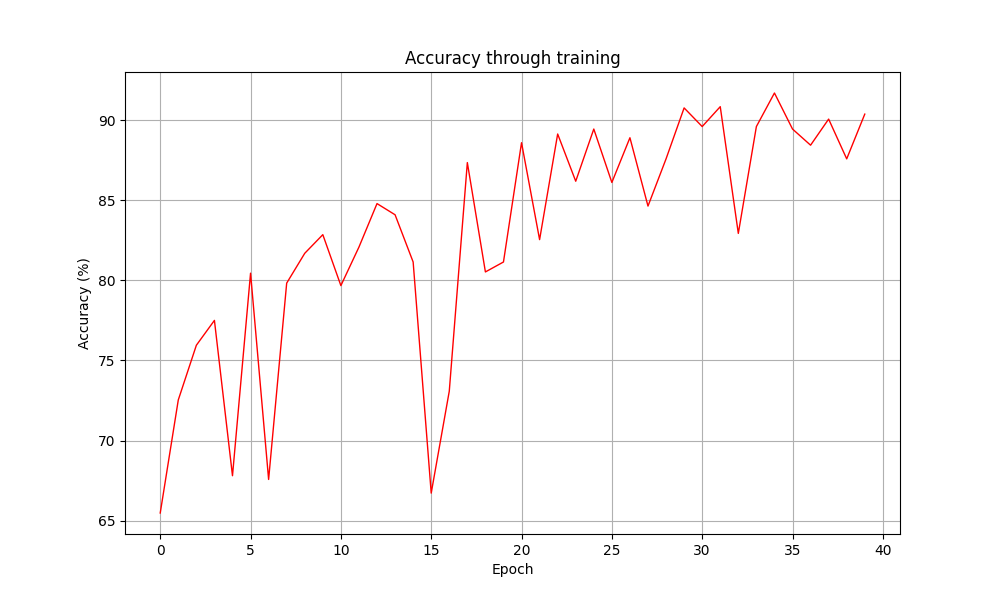
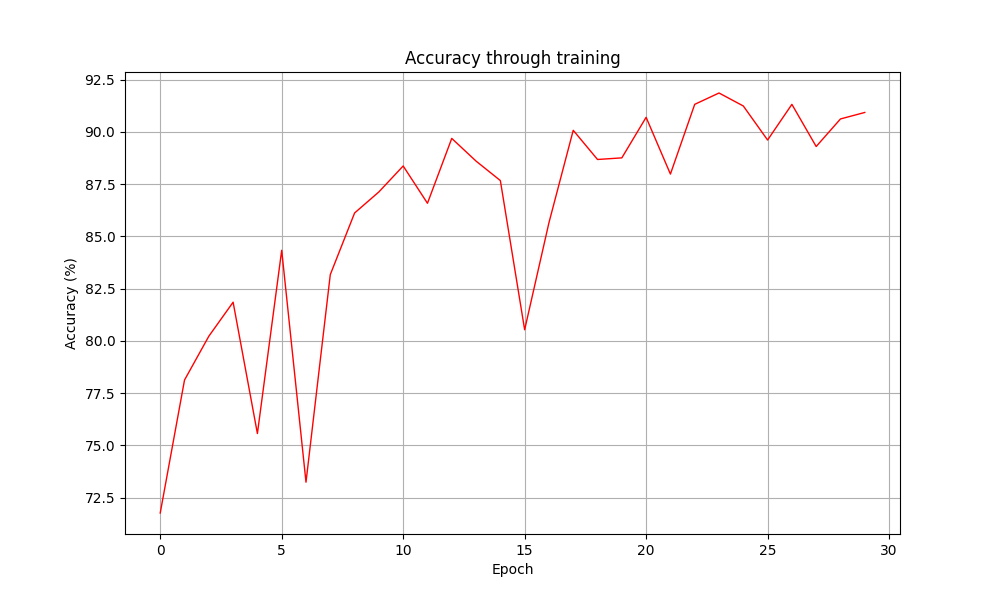
added xavier

diff --git a/NeuralNetwork.py b/NeuralNetwork.py
@@ -100,7 +100,7 @@ def model_with_regularization(
     np.random.seed(1)
 
     # initialize parameters
-    parameters, previous_parameters = initialize_parameters(layers_dims)
+    parameters, previous_parameters = initialize_parameters(layers_dims, hidden_layers_activation_fn)
 
     # intialize cost list
     cost_list = []
@@ -141,25 +141,41 @@ def model_with_regularization(
     return parameters, reg_cost, cost_list, accuracy_list
 
 # Initialize parameters with he inizialization
-def initialize_parameters(layers_dims):
+def initialize_parameters(layers_dims, hidden_layers_activation_fn):
 
     np.random.seed(1)
     parameters = {}
     previous_parameters = {}
     L = len(layers_dims)
 
-    for l in range(1, L):
-        parameters["W" + str(l)] = np.random.randn(
-            layers_dims[l],
-            layers_dims[l - 1]) * np.sqrt(2 / layers_dims[l - 1])
-        parameters["b" + str(l)] = np.zeros((layers_dims[l], 1))
+    if hidden_layers_activation_fn == "relu":
 
-        previous_parameters["W" + str(l)] = np.zeros((layers_dims[l], layers_dims[l - 1]))
-        previous_parameters["b" + str(l)] = np.zeros((layers_dims[l], 1))
+        for l in range(1, L):
+            parameters["W" + str(l)] = np.random.randn(
+                layers_dims[l],
+                layers_dims[l - 1]) * np.sqrt(2 / layers_dims[l - 1])
+            parameters["b" + str(l)] = np.zeros((layers_dims[l], 1))
 
-        assert parameters["W" + str(l)].shape == (
-            layers_dims[l], layers_dims[l - 1])
-        assert parameters["b" + str(l)].shape == (layers_dims[l], 1)
+            previous_parameters["W" + str(l)] = np.zeros((layers_dims[l], layers_dims[l - 1]))
+            previous_parameters["b" + str(l)] = np.zeros((layers_dims[l], 1))
+
+            assert parameters["W" + str(l)].shape == (
+                layers_dims[l], layers_dims[l - 1])
+            assert parameters["b" + str(l)].shape == (layers_dims[l], 1)
+
+    else:
+        for l in range(1, L):
+            parameters["W" + str(l)] = np.random.randn(
+                layers_dims[l],
+                layers_dims[l - 1]) * np.sqrt(1 / layers_dims[l - 1])
+            parameters["b" + str(l)] = np.zeros((layers_dims[l], 1))
+
+            previous_parameters["W" + str(l)] = np.zeros((layers_dims[l], layers_dims[l - 1]))
+            previous_parameters["b" + str(l)] = np.zeros((layers_dims[l], 1))
+
+            assert parameters["W" + str(l)].shape == (
+                layers_dims[l], layers_dims[l - 1])
+            assert parameters["b" + str(l)].shape == (layers_dims[l], 1)
 
     return parameters, previous_parameters
 

diff --git a/Main.py b/Main.py
@@ -29,20 +29,20 @@ def main():
         dir = "mushroom"
         dataset = resize_dataset(dataset, label_name, 0.2)
         num_epoch = 50
-        mini_batch_size=64
+        mini_batch_size = 64
     elif dataset == "2":
         dataset = pd.read_csv("./datasets/bank_churn.csv")
         label_name = "Exited"
         dir = "bank"
         dataset = resize_dataset(dataset, label_name, 0.2)
-        num_epoch = 100
-        mini_batch_size = 512
+        num_epoch = 50
+        mini_batch_size = 64
     else:
         dataset = pd.read_csv("./datasets/alzheimers_disease_data.csv")
         label_name = "Diagnosis"
         dir = "alzheimer"
-        num_epoch = 40
-        mini_batch_size = 256
+        num_epoch = 30
+        mini_batch_size = 64
 
     # clearing previous plots and files
     clear_folder("./plots/" + dir + "/" + activation_function)
@@ -59,7 +59,7 @@ def main():
         lambda_l1_list = [1e-3, 5e-3]
         lambda_l2_list = [0.01, 0.1, 0.5]
     else:
-        lambda_l1_list = [0.5, 1, 1.2]
+        lambda_l1_list = [0.5, 1]
         lambda_l2_list = [0.1, 0.5, 4.5]
     layers_dims_list = [[first, 32, 32, 1], [first, 64, 32, 1], [first, 64, 64, 1], [first, 128, 64, 1], [first, 128, 128, 1], [first, 256, 128, 1], [first, 256, 256, 1]]
 
